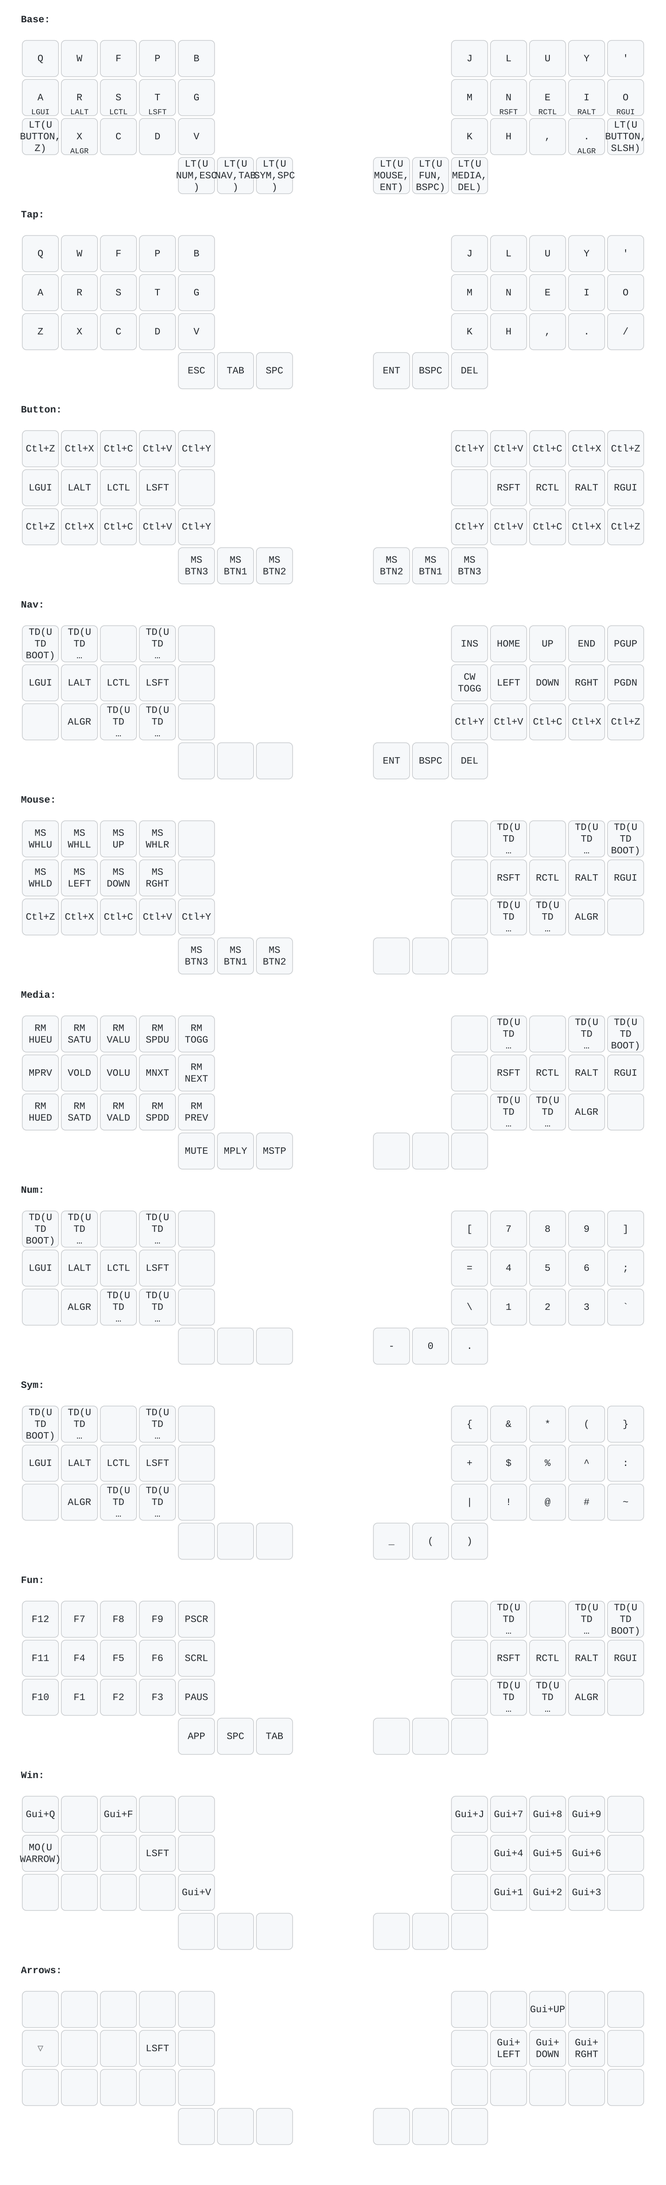
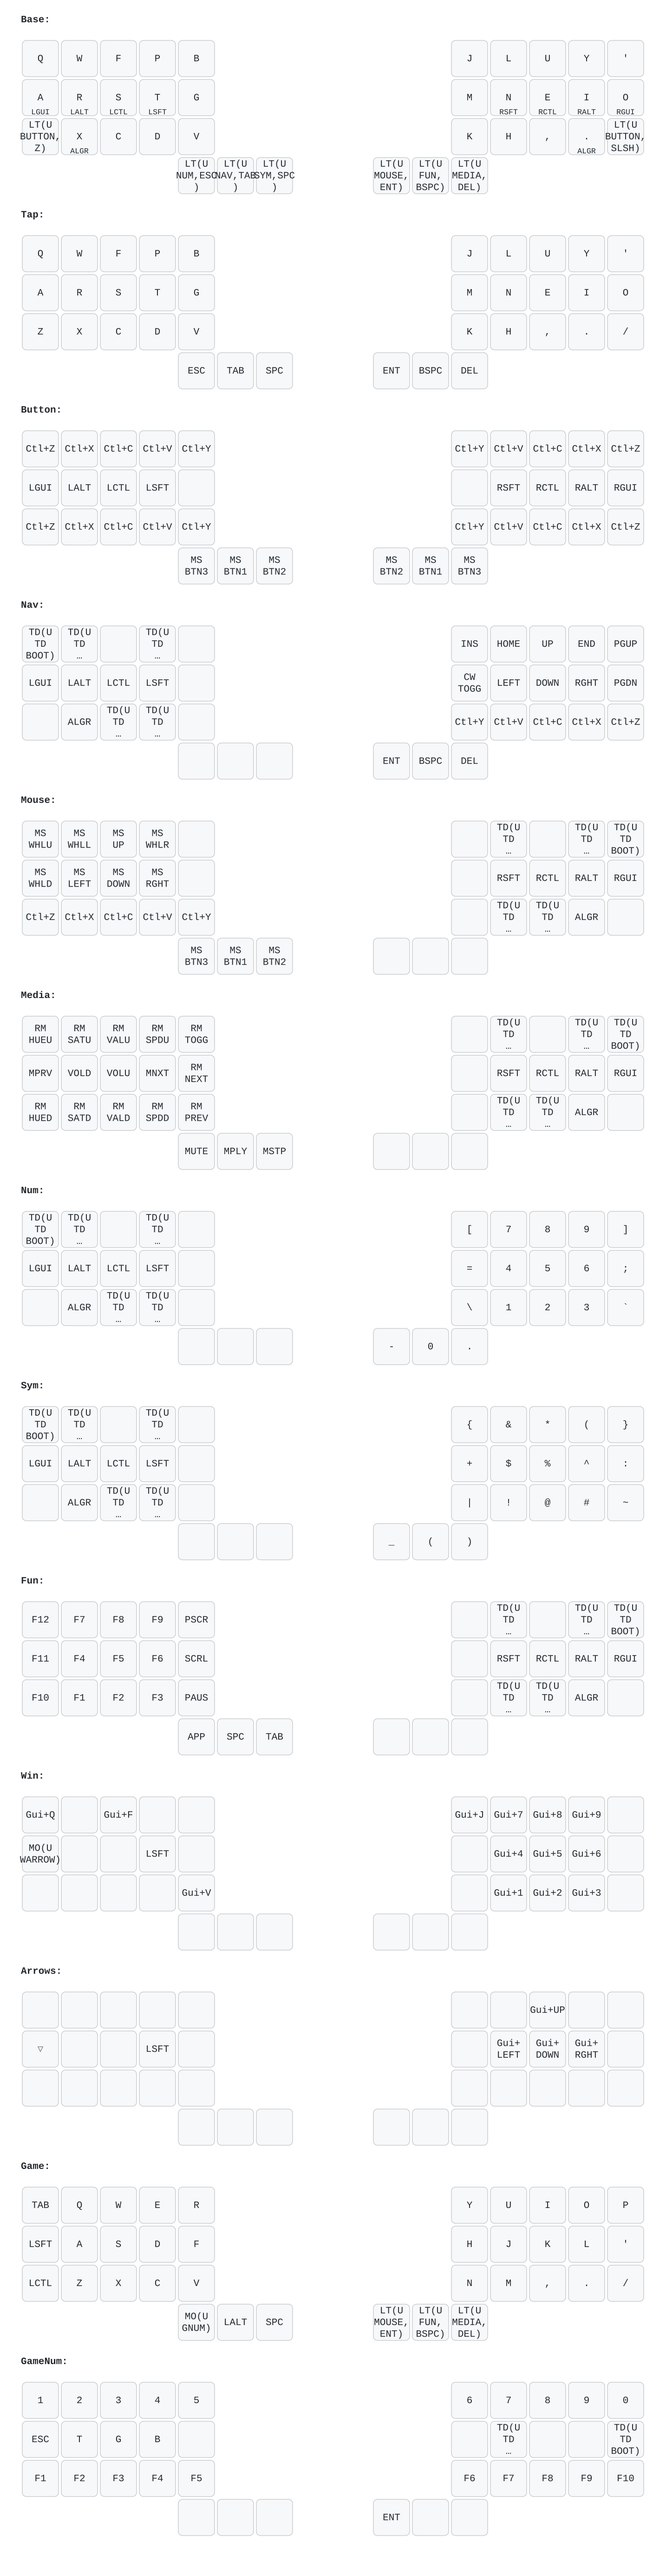
feat(barediver): add toggleable game mode with red RGB indicator
Bspc+Del thumb squeeze toggles a QWERTY game default layer (community
3x5 pattern: keymap shifted one column right so the pinky column is
Tab/Shift/Ctrl and WASD sits under the gaming claw). A GameNum hold on
the outer left thumb carries quickbar 1-0, the displaced T/G/B, Esc,
and F-keys. Whole board turns red while game mode is active.

diff --git a/keyboards/bastardkb/skeletyl/keymaps/barediver/keymap.c b/keyboards/bastardkb/skeletyl/keymaps/barediver/keymap.c
@@ -15,6 +15,8 @@ enum layers {
     U_FUN,
     U_WIN,
     U_WARROW,
+    U_GAME,
+    U_GNUM,
 };
 
 // Tap dance: double-tap a layer's "you are here" key to set it as the default
@@ -30,6 +32,12 @@ enum {
     U_TD_U_NUM,
     U_TD_U_SYM,
     U_TD_U_FUN,
+};
+
+// Game mode toggle, fired by the Bspc+Del thumb combo (see key_combos): the
+// same squeeze enters and leaves game mode, from Base or Game alike.
+enum custom_keycodes {
+    U_GAMETOG = SAFE_RANGE,
 };
 
 void u_td_fn_boot(tap_dance_state_t *state, void *user_data) {
@@ -53,6 +61,14 @@ U_TD_LAYER(U_MEDIA)
 U_TD_LAYER(U_NUM)
 U_TD_LAYER(U_SYM)
 U_TD_LAYER(U_FUN)
+
+bool process_record_user(uint16_t keycode, keyrecord_t *record) {
+    if (keycode == U_GAMETOG && record->event.pressed) {
+        bool in_game = get_highest_layer(default_layer_state) == U_GAME;
+        default_layer_set((layer_state_t)1 << (in_game ? U_BASE : U_GAME));
+    }
+    return true;
+}
 
 tap_dance_action_t tap_dance_actions[] = {
     [U_TD_BOOT]      = ACTION_TAP_DANCE_FN(u_td_fn_boot),
@@ -161,13 +177,49 @@ const uint16_t PROGMEM keymaps[][MATRIX_ROWS][MATRIX_COLS] = {
         KC_NO,   KC_NO, KC_NO, KC_NO,   KC_NO,     KC_NO, KC_NO,         KC_NO,         KC_NO,         KC_NO,
                         KC_NO, KC_NO,   KC_NO,     KC_NO, KC_NO,         KC_NO
     ),
+
+    // Game mode: the left half is QWERTY shifted one column right — the
+    // community-converged 3x5 gaming layout (see Miryoku discussion #158).
+    // Since the hand can't slide over a column like on a row-stagger board,
+    // the keymap slides instead: the pinky column becomes the classic
+    // Tab/Shift/Ctrl stack and WASD lands under ring/middle/index, matching a
+    // normal keyboard's gaming claw. All holds are plain keys — no tap-hold
+    // timing anywhere the left hand touches. The displaced inner column
+    // (T/G/B) plus numbers, Esc, and F-keys live on U_GNUM, held on the outer
+    // thumb. Right half keeps its QWERTY letters for chat, and the right
+    // thumbs keep their base layer-taps (never held in-game) so Mouse/Fun/
+    // Media stay reachable. Toggle game mode with the Bspc+Del thumb squeeze
+    // (game_combo); the whole board turns red while it is the default layer.
+    [U_GAME] = LAYOUT_split_3x5_3(
+        KC_TAB,  KC_Q,    KC_W,    KC_E,    KC_R,        KC_Y,    KC_U,    KC_I,    KC_O,    KC_P,
+        KC_LSFT, KC_A,    KC_S,    KC_D,    KC_F,        KC_H,    KC_J,    KC_K,    KC_L,    KC_QUOT,
+        KC_LCTL, KC_Z,    KC_X,    KC_C,    KC_V,        KC_N,    KC_M,    KC_COMM, KC_DOT,  KC_SLSH,
+                     MO(U_GNUM), KC_LALT, KC_SPC,        LT(U_MOUSE,KC_ENT), LT(U_FUN,KC_BSPC), LT(U_MEDIA,KC_DEL)
+    ),
+
+    // Held from the game layer's outer left thumb: quickbar numbers 1-5 under
+    // the fingers (6-0 mirrored on the right), the displaced T/G/B on the
+    // left home row for chat words, Esc on the pinky home, and F1-F10 on the
+    // bottom rows. Double-tap Base (right home index) is a backup exit from
+    // game mode; Boot sits on the right pinky home for flashing.
+    [U_GNUM] = LAYOUT_split_3x5_3(
+        KC_1,    KC_2,    KC_3,    KC_4,    KC_5,        KC_6,    KC_7,    KC_8,    KC_9,    KC_0,
+        KC_ESC,  KC_T,    KC_G,    KC_B,    KC_NO,       KC_NO,   TD(U_TD_U_BASE), KC_NO, KC_NO, TD(U_TD_BOOT),
+        KC_F1,   KC_F2,   KC_F3,   KC_F4,   KC_F5,       KC_F6,   KC_F7,   KC_F8,   KC_F9,   KC_F10,
+                          KC_NO,   KC_NO,   KC_NO,       KC_ENT,  KC_NO,   KC_NO
+    ),
 };
 
 // Squeeze the Nav + Mouse thumbs (Tab + Enter) to hold window mode; release to
 // return to base. Momentary, so both hands stay free for the numpad + arrows.
 const uint16_t PROGMEM win_combo[] = {LT(U_NAV, KC_TAB), LT(U_MOUSE, KC_ENT), COMBO_END};
+// Squeeze the Fun + Media thumbs (Bspc + Del) to toggle game mode. The right
+// thumb cluster is identical on Base and Game, so the same squeeze works in
+// both directions — no mirrored gestures to remember.
+const uint16_t PROGMEM game_combo[] = {LT(U_FUN, KC_BSPC), LT(U_MEDIA, KC_DEL), COMBO_END};
 combo_t key_combos[] = {
     COMBO(win_combo, MO(U_WIN)),
+    COMBO(game_combo, U_GAMETOG),
 };
 
 // Shift + Caps Word toggle = Caps Lock
@@ -189,3 +241,17 @@ bool get_chordal_hold(uint16_t tap_hold_keycode, keyrecord_t *tap_hold_record,
     }
     return get_chordal_hold_default(tap_hold_record, other_record);
 }
+
+// Visual indicator for game mode: paint the whole board red while U_GAME is
+// the default layer, overriding the active RGB animation. Everything reverts
+// on its own when game mode is left. (Needs RGB not toggled off via RM_TOGG.)
+#ifdef RGB_MATRIX_ENABLE
+bool rgb_matrix_indicators_advanced_user(uint8_t led_min, uint8_t led_max) {
+    if (get_highest_layer(default_layer_state) == U_GAME) {
+        for (uint8_t i = led_min; i < led_max; i++) {
+            rgb_matrix_set_color(i, RGB_RED);
+        }
+    }
+    return false;
+}
+#endif

diff --git a/keyboards/bastardkb/skeletyl/keymaps/barediver/config.h b/keyboards/bastardkb/skeletyl/keymaps/barediver/config.h
@@ -10,9 +10,10 @@
 #define TAPPING_TERM 200
 #define QUICK_TAP_TERM 0
 
-// Combo timing: the window for both Tab+Enter thumbs to land together and enter
-// the window-control layer. Bumped above the 50ms default so the two-thumb
-// squeeze is more forgiving (cost: a bare Tab/Enter tap waits this long).
+// Combo timing: the window for a two-thumb squeeze to land together (Tab+Enter
+// -> window layer, Bspc+Del -> game-mode toggle). Bumped above the 50ms
+// default so the squeezes are more forgiving (cost: a bare tap on a combo key
+// waits this long).
 #define COMBO_TERM 75
 
 // Home-row-mod hold detection.
